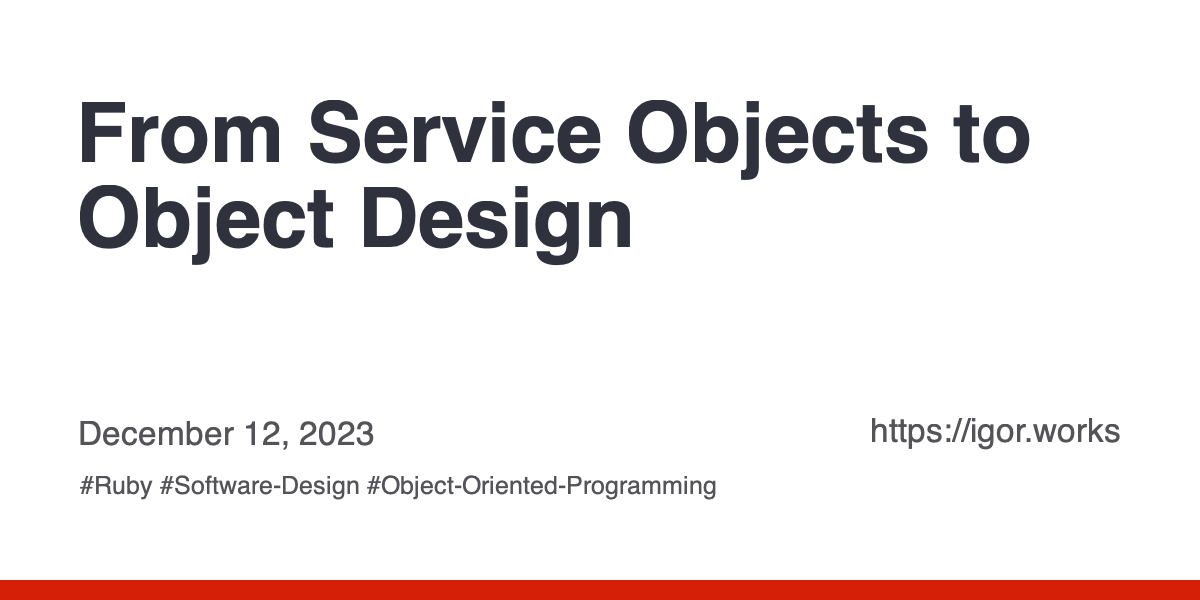
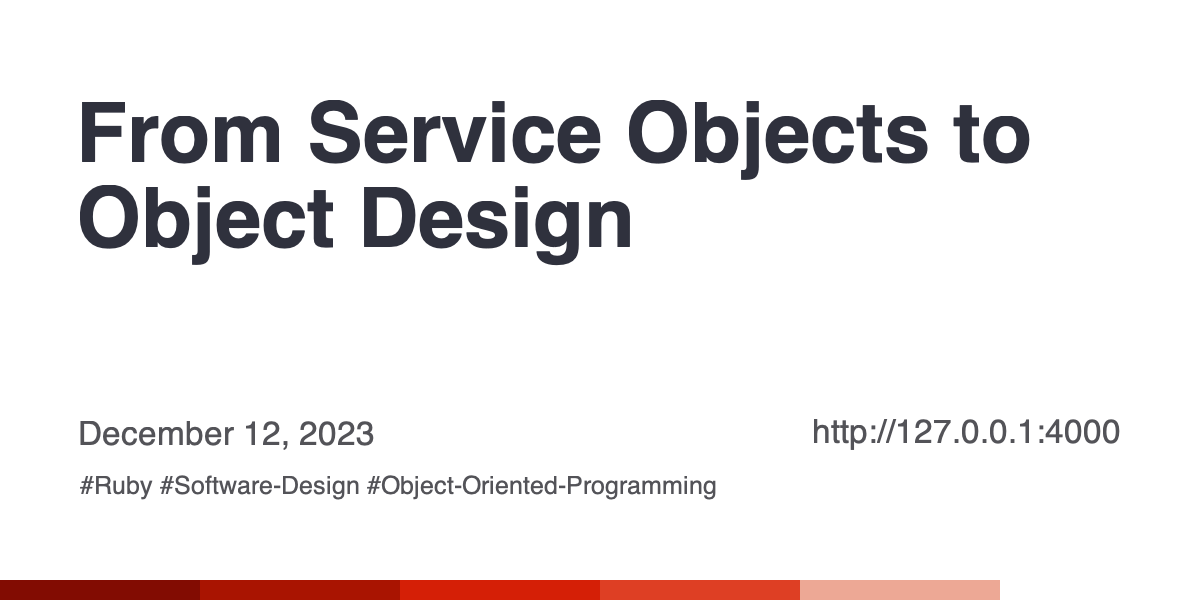
Updated OG image border generation

Changed region(s): [[0.4933, 0.96, 1.0, 1.0], [0.0, 0.96, 0.3392, 1.0], [0.6783, 0.69, 0.9558, 0.75]]

diff --git a/_layouts/post.html b/_layouts/post.html
@@ -2,6 +2,7 @@
 layout: default
 disqus: false
 post_class: post-template
+image: /assets/og-images/cover.jpg
 ---
 
 <div data-controller="scroll-progress" class="scroll-progress bg-indigo-400 fixed top-0"></div>

diff --git a/lib/jekyll-opengraph/element/border.rb b/lib/jekyll-opengraph/element/border.rb
@@ -1,13 +1,26 @@
 class JekyllOpengraph::Element::Border
-  def initialize(canvas, size, position: :bottom, color: "#000000")
+  class Part < Data.define(:rgb, :width, :height, :offset)
+  end
+
+  def initialize(canvas, size, position: :bottom, fill: "#000000")
     @canvas = canvas
     @size = size
     @position = position
-    @color = color
+    @fill = fill
 
     validate_position!
 
-    @border = Vips::Image.black(*dimensions).ifthenelse([ 0, 0, 0 ], hex_to_rgb(@color))
+    @border = Vips::Image.black(*dimensions)
+
+    parts.each.with_index do |part, index|
+      border = Vips::Image.black(part.width, part.height).ifthenelse([ 0, 0, 0 ], part.rgb)
+
+      if vertical?
+        @border = @border.composite(border, :over, x: [ 0 ], y: [ part.offset ]).flatten
+      else
+        @border = @border.composite(border, :over, x: [ part.offset ], y: [ 0 ]).flatten
+      end
+    end
   end
 
   def apply(&block)
@@ -20,6 +33,25 @@ class JekyllOpengraph::Element::Border
     else
       y = @position == :top ? y : @canvas.height - @size - y
       @canvas.composite(@border, :over, x: [ 0 ], y: [ y ]).flatten
+    end
+  end
+
+  def parts
+    if @fill.is_a?(Array)
+      width, height = vertical? ? [ @size, (@canvas.height / @fill.size) ] : [ (@canvas.width / @fill.size), @size ]
+
+      @fill.map.with_index do |item, index|
+        Part.new(
+          rgb: hex_to_rgb(item),
+          width: width,
+          height: height,
+          offset: index * (vertical? ? height : width)
+        )
+      end
+    else
+      length = vertical? ? @canvas.height : @canvas.width
+
+      [ Part.new(rgb: hex_to_rgb(@fill), length: length, offset: 0) ]
     end
   end
 

diff --git a/_plugins/og_image_generator.rb b/_plugins/og_image_generator.rb
@@ -13,7 +13,7 @@ module SamplePlugin
         date = post.date.strftime("%B %d, %Y")
 
         image = JekyllOpengraph::Image.new(1200, 600)
-          .border(20, position: :bottom, color: '#d51f06')
+          .border(20, position: :bottom, fill: [ '#820C02', '#A91401', '#D51F06', '#DE3F24', '#EDA895', '#FFFFFF' ])
           .text(post.title, width: 1040, color: "#2f313d", dpi: 500, font: 'Helvetica, Bold') do |_canvas, _text|
             {
               x: 80,
@@ -38,7 +38,7 @@ module SamplePlugin
           end
         end
 
-        image = image.text(site.baseurl, gravity: :se, color: "#535358", dpi: 200, font: 'Helvetica, Regular') do |_canvas, _text|
+        image = image.text(site.baseurl || 'http://127.0.0.1:4000', gravity: :se, color: "#535358", dpi: 200, font: 'Helvetica, Regular') do |_canvas, _text|
           {
             x: 80,
             y: post.tags.any? ? 150 : 100

diff --git a/lib/jekyll-opengraph/image.rb b/lib/jekyll-opengraph/image.rb
@@ -18,11 +18,11 @@ module JekyllOpengraph
       self
     end
 
-    def border(size, position: :bottom, color: "#000000")
+    def border(size, position: :bottom, fill: "#000000")
       @canvas = JekyllOpengraph::Element::Border.new(
         @canvas, size,
         position: position,
-        color: color
+        fill: fill
       ).apply
 
       self
